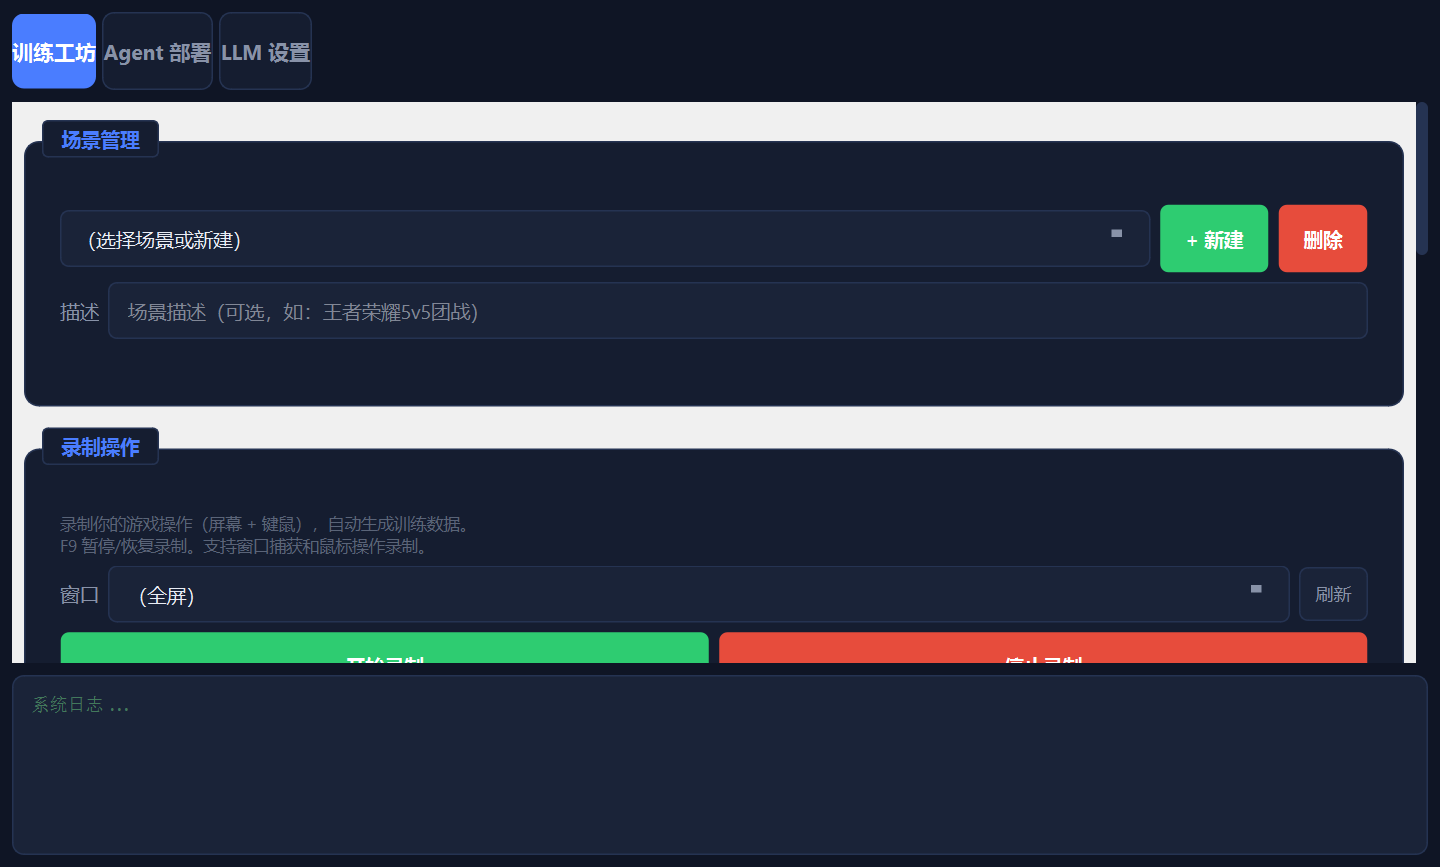
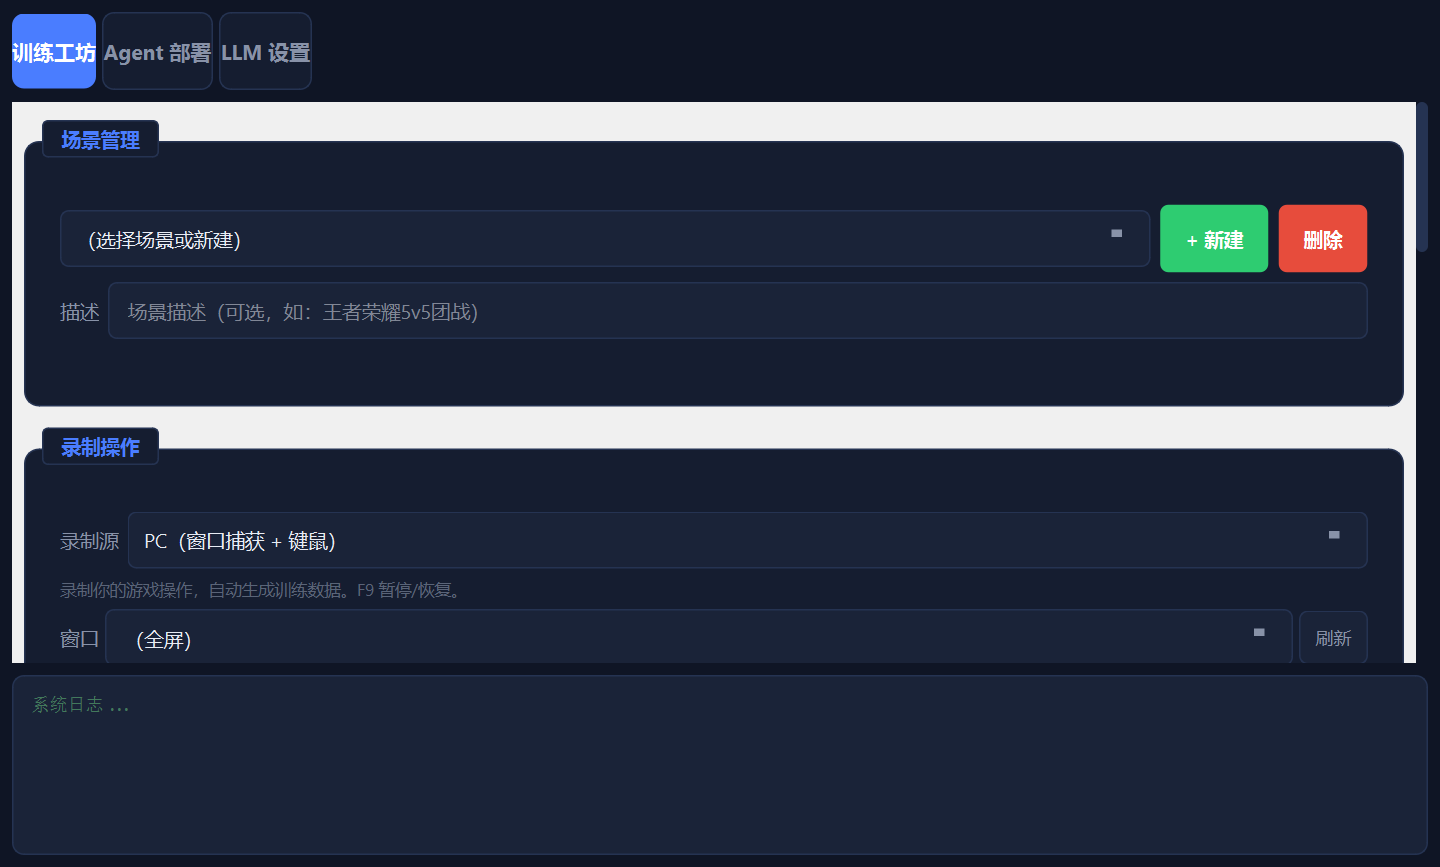
训练工坊支持手机录制（scrcpy + ADB 触控）
- 录制操作新增 PC/手机源切换
- 手机模式：ADB 设备检测 + 触控区域预设（MOBA/FPS）
- main_window 根据录制源自动选择 GameRecorder 或 MobileRecorder
- 兼容两种录制统计格式

Changed region(s): [[0.0312, 0.5917, 0.9688, 0.7785]]

diff --git a/vision_agent/gui/workshop_panel.py b/vision_agent/gui/workshop_panel.py
@@ -181,15 +181,28 @@ class WorkshopPanel(QWidget):
 
         rec_layout = src_layout
 
-        rec_info = QLabel(
-            "录制你的游戏操作（屏幕 + 键鼠），自动生成训练数据。\n"
-            "F9 暂停/恢复录制。支持窗口捕获和鼠标操作录制。"
-        )
-        rec_info.setWordWrap(True)
-        rec_info.setStyleSheet(f"color: {COLORS['text_dim']}; font-size: 11px;")
-        rec_layout.addWidget(rec_info)
+        # 录制源切换
+        source_row = QHBoxLayout()
+        source_row.addWidget(QLabel("录制源"))
+        self.source_combo = QComboBox()
+        self.source_combo.addItems(["PC（窗口捕获 + 键鼠）", "手机（scrcpy + ADB 触控）"])
+        self.source_combo.currentIndexChanged.connect(self._on_source_changed)
+        source_row.addWidget(self.source_combo, 1)
+        rec_layout.addLayout(source_row)
 
-        # 窗口选择
+        self.rec_info = QLabel(
+            "录制你的游戏操作，自动生成训练数据。F9 暂停/恢复。"
+        )
+        self.rec_info.setWordWrap(True)
+        self.rec_info.setStyleSheet(f"color: {COLORS['text_dim']}; font-size: 11px;")
+        rec_layout.addWidget(self.rec_info)
+
+        # -- PC 模式控件 --
+        self.pc_source_widget = QWidget()
+        pc_layout = QVBoxLayout(self.pc_source_widget)
+        pc_layout.setContentsMargins(0, 0, 0, 0)
+        pc_layout.setSpacing(4)
+
         win_row = QHBoxLayout()
         win_row.addWidget(QLabel("窗口"))
         self.window_combo = QComboBox()
@@ -202,7 +215,41 @@ class WorkshopPanel(QWidget):
         self.refresh_windows_btn.setMaximumWidth(50)
         self.refresh_windows_btn.clicked.connect(self._refresh_window_list)
         win_row.addWidget(self.refresh_windows_btn)
-        rec_layout.addLayout(win_row)
+        pc_layout.addLayout(win_row)
+        rec_layout.addWidget(self.pc_source_widget)
+
+        # -- 手机模式控件 --
+        self.mobile_source_widget = QWidget()
+        mob_layout = QVBoxLayout(self.mobile_source_widget)
+        mob_layout.setContentsMargins(0, 0, 0, 0)
+        mob_layout.setSpacing(4)
+
+        dev_row = QHBoxLayout()
+        dev_row.addWidget(QLabel("设备"))
+        self.mobile_device_combo = QComboBox()
+        self.mobile_device_combo.setEditable(True)
+        self.mobile_device_combo.setPlaceholderText("自动检测或输入序列号")
+        dev_row.addWidget(self.mobile_device_combo, 1)
+        self.refresh_devices_btn = QPushButton("刷新")
+        self.refresh_devices_btn.setObjectName("browseBtn")
+        self.refresh_devices_btn.setMaximumWidth(50)
+        self.refresh_devices_btn.clicked.connect(self._refresh_device_list)
+        dev_row.addWidget(self.refresh_devices_btn)
+        mob_layout.addLayout(dev_row)
+
+        zone_row = QHBoxLayout()
+        zone_row.addWidget(QLabel("触控预设"))
+        self.touch_zone_combo = QComboBox()
+        self.touch_zone_combo.addItems(["moba - MOBA 手游", "fps - FPS 手游", "无 - 自动检测"])
+        zone_row.addWidget(self.touch_zone_combo, 1)
+        mob_layout.addLayout(zone_row)
+
+        self.mobile_status = QLabel("")
+        self.mobile_status.setStyleSheet(f"color: {COLORS['text_dim']}; font-size: 11px;")
+        mob_layout.addWidget(self.mobile_status)
+
+        rec_layout.addWidget(self.mobile_source_widget)
+        self.mobile_source_widget.setVisible(False)
 
         rec_btn_row = QHBoxLayout()
         self.record_start_btn = QPushButton("开始录制")
@@ -409,6 +456,54 @@ class WorkshopPanel(QWidget):
         text = self.sp_preset_combo.currentText()
         preset_name = text.split(" - ")[0].strip()
         return {"preset": preset_name}
+
+    # ── 录制源切换 ──
+
+    def _on_source_changed(self, index: int):
+        is_mobile = (index == 1)
+        self.pc_source_widget.setVisible(not is_mobile)
+        self.mobile_source_widget.setVisible(is_mobile)
+        if is_mobile:
+            self.rec_info.setText("录制手机游戏操作（scrcpy 投屏 + ADB 触摸采集）。需要 USB 调试。")
+            self._refresh_device_list()
+        else:
+            self.rec_info.setText("录制你的游戏操作，自动生成训练数据。F9 暂停/恢复。")
+
+    def is_mobile_source(self) -> bool:
+        return self.source_combo.currentIndex() == 1
+
+    def get_mobile_device(self) -> str:
+        data = self.mobile_device_combo.currentData()
+        if data:
+            return data
+        return self.mobile_device_combo.currentText().strip()
+
+    def get_touch_zone_preset(self) -> str:
+        text = self.touch_zone_combo.currentText()
+        preset = text.split(" - ")[0].strip()
+        return "" if preset == "无" else preset
+
+    def _refresh_device_list(self):
+        self.mobile_device_combo.clear()
+        try:
+            import subprocess
+            r = subprocess.run(
+                ["adb", "devices", "-l"],
+                capture_output=True, text=True, timeout=5,
+            )
+            for line in r.stdout.strip().split("\n")[1:]:
+                if not line.strip() or "device" not in line:
+                    continue
+                parts = line.split()
+                serial = parts[0]
+                info = " ".join(parts[2:]) if len(parts) > 2 else ""
+                self.mobile_device_combo.addItem(f"{serial} ({info})" if info else serial, serial)
+            count = self.mobile_device_combo.count()
+            self.mobile_status.setText(f"检测到 {count} 个设备" if count else "未检测到设备，请检查 USB 连接")
+        except FileNotFoundError:
+            self.mobile_status.setText("未找到 adb，请安装 Android SDK Platform Tools")
+        except Exception as e:
+            self.mobile_status.setText(f"检测失败: {e}")
 
     # ── 窗口管理 ──
 

diff --git a/vision_agent/gui/main_window.py b/vision_agent/gui/main_window.py
@@ -292,19 +292,38 @@ class MainWindow(QMainWindow):
         else:
             rec_dir = f"recordings/{_time.strftime('%Y%m%d_%H%M%S')}"
 
-        from ..data.game_recorder import GameRecorder
-        window_title = wp.get_window_title()
-        self._recorder = GameRecorder(
-            output_dir=rec_dir,
-            fps=10,
-            window_title=window_title,
-            record_mouse=True,
-            on_log=lambda msg: self._learn_log.emit(msg),
-        )
-        self._recorder.start()
-        wp.set_recording_state(True)
-        window_info = f" (窗口: {window_title})" if window_title else " (全屏)"
-        self._log(f"[录制] 开始录制{window_info}，F9 暂停/恢复...")
+        if wp.is_mobile_source():
+            # 手机录制
+            from ..data.mobile_recorder import MobileRecorder
+            device = wp.get_mobile_device()
+            zone_preset = wp.get_touch_zone_preset()
+            touch_zones = MobileRecorder.create_default_zones(zone_preset) if zone_preset else None
+
+            self._recorder = MobileRecorder(
+                output_dir=rec_dir,
+                fps=10,
+                touch_zones=touch_zones,
+                adb_device=device,
+                on_log=lambda msg: self._learn_log.emit(msg),
+            )
+            self._recorder.start()
+            wp.set_recording_state(True)
+            self._log(f"[录制] 手机录制开始 (设备: {device or '自动'})...")
+        else:
+            # PC 录制
+            from ..data.game_recorder import GameRecorder
+            window_title = wp.get_window_title()
+            self._recorder = GameRecorder(
+                output_dir=rec_dir,
+                fps=10,
+                window_title=window_title,
+                record_mouse=True,
+                on_log=lambda msg: self._learn_log.emit(msg),
+            )
+            self._recorder.start()
+            wp.set_recording_state(True)
+            window_info = f" (窗口: {window_title})" if window_title else " (全屏)"
+            self._log(f"[录制] PC 录制开始{window_info}，F9 暂停/恢复...")
 
     @Slot()
     def _stop_recording(self):
@@ -320,11 +339,13 @@ class MainWindow(QMainWindow):
         def _save():
             try:
                 stats = recorder.stop()
+                # 兼容 PC (GameRecordingStats) 和手机 (MobileRecordingStats)
+                total_events = getattr(stats, "total_events", 0) or getattr(stats, "total_touch_events", 0)
                 self._recording_done.emit(
                     stats.output_dir,
                     {
                         "total_frames": stats.total_frames,
-                        "total_events": stats.total_events,
+                        "total_events": total_events,
                         "duration_sec": stats.duration_sec,
                         "action_dist": stats.action_dist,
                     },
